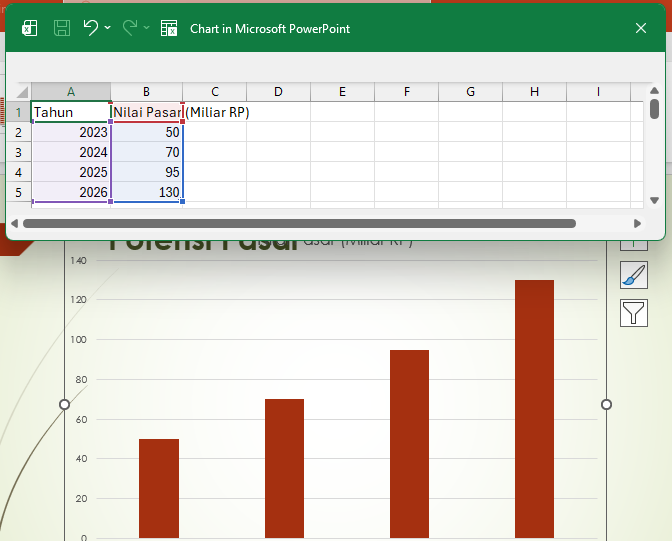
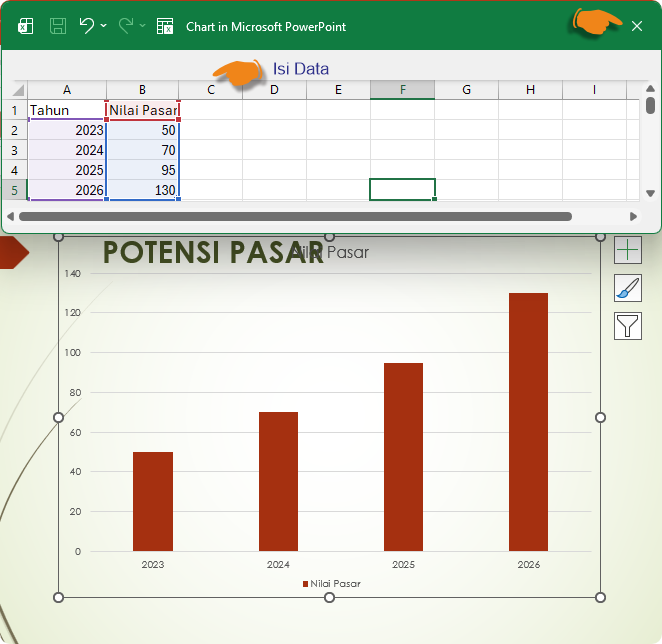
M

diff --git a/materi-powerpoint.html b/materi-powerpoint.html
@@ -478,7 +478,7 @@
                                     </div>
                                   </li>
                                 </ul>
-                                <p class="mt-2 mb-1"><strong>Isi:</strong></p>
+                                <p class="mt-2 mb-1"><strong><strong>Isi</strong>:</strong></p>
                                 <ol>
                                   <li><strong>Judul</strong> (atas): ketik <strong>"PENDIDIKAN &amp;
                                       PENGALAMAN"</strong>, font 36-40 pt.</li>
@@ -1175,7 +1175,7 @@
 
                             <div class="row">
                               <div class="col-md-6">
-                                <strong>Langkah 2 — Isi Judul</strong>
+                                <strong>Langkah 2 — <strong>Isi</strong> Judul</strong>
                                 <ol>
                                   <li>Klik <strong>Click to add text</strong>.</li>
                                   <li>Masukkan teks <strong>"PT MAJU JAYA INDONESIA"</strong>.
@@ -1189,7 +1189,7 @@
                                 </ol>
                               </div>
                               <div class="col-md-6">
-                                <strong>Langkah 3 — Isi Subtitle</strong>
+                                <strong>Langkah 3 — <strong>Isi</strong> Subtitle</strong>
                                 <ol>
                                   <li>Klik <strong>Click to add subtitle</strong>.</li>
                                   <li>Masukkan Subtitle: <strong>"Profil Perusahaan 2026"</strong>.
@@ -1321,7 +1321,7 @@
                                         class="img-fluid shadow rounded" style="max-width: 320px;">
                                     </div>
                                   </li>
-                                  <li>Isi teks di panel SmartArt:
+                                  <li><strong>Isi</strong> teks di panel SmartArt:
                                     <ul>
                                       <li>Level 1: <strong>Direktur Utama</strong></li>
                                       <li>Level 2: <strong>Manager</strong> (Keuangan, Produksi, SDM)</li>
@@ -1357,7 +1357,7 @@
                                       </li>
                                     </ul>
                                   </li>
-                                  <li>Isi tiap kotak:
+                                  <li><strong>Isi</strong> tiap kotak:
                                     <ul>
                                       <li><strong>Ikon</strong>: Insert → Icons (cari sesuai produk).</li>
                                       <li><strong>Nama produk</strong>: font 20-24 pt tebal, di bawah ikon.</li>
@@ -2090,7 +2090,7 @@
                                     </div>
                                   </li>
                                   <li>
-                                    Isi tiap <i class="bi bi-app"></i> Shape: <strong>PROSPEK</strong>,
+                                    <strong>Isi</strong> tiap <i class="bi bi-app"></i> Shape: <strong>PROSPEK</strong>,
                                     <strong>PENAWARAN</strong>,
                                     <strong>NEGOSIASI</strong>, <strong>DEAL</strong>, font 20-24 pt tebal.
                                     <div class="my-3">
@@ -2410,7 +2410,7 @@
                             Klik <strong>New Slide</strong> (ulangi 3 kali).
                           </li>
                           <li class="mb-3">
-                            Isi tiap Slide dengan Judul berbeda (font 36-40 pt):
+                            <strong>Isi</strong> tiap Slide dengan Judul berbeda (font 36-40 pt):
                             <div class="row">
                               <div class="col-md-6">
                                 <ol start="1">
@@ -3701,7 +3701,7 @@
                                   <li>Klik <strong>New Slide</strong>.</li>
                                   <li>Pilih <strong>Layout</strong> → <strong>Two Content</strong>.</li>
                                   <li>Judul : "<strong>MASALAH & SOLUSI</strong>"</li>
-                                  <li>Isi : <br>
+                                  <li><strong>Isi</strong> : <br>
                                     <strong>Masalah</strong>
                                     <ul class="mb-2">
                                       <li>Banyak orang sibuk sehingga tidak sempat belanja.</li>
@@ -3772,7 +3772,7 @@
                                 <ol>
                                   <li>Klik <strong>New Slide</strong> → <strong>Title Only</strong>.</li>
                                   <li>Judul: "<strong>PRODUK KAMI</strong>".</li>
-                                  <li>Isi :
+                                  <li><strong>Isi</strong> :
                                     <div class="ms-3 my-2 mb-3">
                                       3 Gambar produk
                                       <div class="pt-1 ms-2">
@@ -3826,7 +3826,7 @@
                                 </div>
                               </div>
                             </div><!-- /row -->
-                            
+
                             <ol start="5">
                               <li><strong>Animation</strong>
                                 <div class="row">
@@ -3870,19 +3870,19 @@
                             <strong>Slide 4 — Potensi Pasar</strong>
                             <div class="row">
                               <div class="col-md-6">
-                                <ul class="list-unstyled">
-                                  <li><strong>Layout:</strong> <strong>Title Only</strong></li>
-                                  <li>Judul : <strong>POTENSI PASAR</strong></li>
-                                  <li>Isi :
+                                <ol>
+                                  <li>Klik <strong>New Slide</strong> → <strong>Title Only</strong>.</li>
+                                  <li>Judul : "<strong>POTENSI PASAR</strong>"</li>
+                                  <li><strong>Isi</strong> :
                                     <div class="ms-2">
-                                      Grafik/chart potensi pasar (<strong>Insert</strong> → <strong>Chart</strong>)
+                                      Grafik/Chart Potensi Pasar (<strong>Insert</strong> → <strong>Chart</strong>)
                                       <div class="my-3">
                                         <img src="assets/img/chart-potensi-pasar.png" alt=""
                                           class="img-fluid shadow rounded">
                                       </div>
                                     </div>
                                   </li>
-                                </ul>
+                                </ol>
                               </div>
                               <div class="col-md-6">
                                 <div class="my-3">
@@ -3894,7 +3894,34 @@
 
                             <div class="row">
                               <div class="col-md-6">
-                                Isi Data Chart:
+                                <strong>Isi</strong> Data Chart:
+                                <table class="table table-sm table0borderless">
+                                  <thead>
+                                    <tr>
+                                      <th>Tahun</th>
+                                      <th>Nilai Pasar</th>
+                                    </tr>
+                                  </thead>
+                                  <tbody>
+                                    <tr>
+                                      <td>2023</td>
+                                      <td>50</td>
+                                    <tr>
+                                      <td>2024</td>
+                                      <td>70</td>
+                                    </tr>
+                                    </tr>
+                                    <tr>
+                                      <td>2025</td>
+                                      <td>95</td>
+                                    <tr>
+                                      <td>2026</td>
+                                      <td>130</td>
+                                    </tr>
+
+                                    </tr>
+                                  </tbody>
+                                </table>
                                 <div class="my-3">
                                   <img src="assets/img/isi-data-chart.png" alt="" class="img-fluid shadow rounded">
                                 </div>
@@ -3945,7 +3972,7 @@
                                   <li><strong>Layout:</strong> <strong>Title Only</strong></li>
                                   <li>Judul : <strong>BUSINESS MODEL</strong></li>
                                   <li>
-                                    <strong>Isi :</strong> <br>
+                                    <strong><strong>Isi</strong> :</strong> <br>
                                     <strong>Sumber Pendapatan</strong>
                                     <ul class="mb-2">
                                       <li>Margin penjualan produk</li>
@@ -4036,7 +4063,7 @@
                                 <ul class="list-unstyled">
                                   <li><strong>Layout:</strong> <strong>Title Only</strong></li>
                                   <li>Judul : <strong>TIM KAMI</strong></li>
-                                  <li>Isi : <br>
+                                  <li><strong>Isi</strong> : <br>
                                     <ul>
                                       <li><strong>Insert</strong> → <strong>SmartArt</strong> →
                                         <strong>Hierarchy</strong>
@@ -4071,7 +4098,7 @@
                                       <li>Marketing: <strong>Sinta</strong></li>
                                       <li>Finance: <strong>Rina</strong></li>
                                     </ul>
-                                    <p>Isi data seperti contoh gambar Slide</p>
+                                    <p><strong>Isi</strong> data seperti contoh gambar Slide</p>
                                   </li>
                                 </ul>
                               </div>
@@ -4106,7 +4133,7 @@
                                 <ul class="list-unstyled">
                                   <li><strong>Layout:</strong> <strong>Title Only</strong></li>
                                   <li>Judul : <strong>Mari Bertumbuh Bersama Kami</strong></li>
-                                  <li>Isi : <br>
+                                  <li><strong>Isi</strong> : <br>
                                   <li><strong>Yang Kami Cari</strong>
                                     <ul class="mb-2">
                                       <li>Investasi</li>
@@ -4525,7 +4552,8 @@
                                     <li>&#10003; Centang Date and time (opsional (jika diperlukan))</li>
                                     <li>&#10003; Centang Slide number (opsional (jika diperlukan))</li>
                                     <li>&#10003; Centang Footer</li>
-                                    <li>&#10003; Isi teks footer, misalnya: <strong>Latihanku</strong></li>
+                                    <li>&#10003; <strong>Isi</strong> teks footer, misalnya: <strong>Latihanku</strong>
+                                    </li>
                                     <li>&#10003; Klik <strong>Apply to All</strong>.
                                       <div class="my-3">
                                         <img src="assets/img/Header&Footer2.png" alt=""
@@ -4546,7 +4574,7 @@
                           <div class="border-start border-4 border-primary ps-3 my-2 py-1">
                             <strong class="text-primary">Slide 1 — Cover</strong> <br>
                             Layout: <strong>Title Slide</strong><br>
-                            Isi:
+                            <strong>Isi</strong>:
                             <div class="row">
                               <div class="col-md-6">
                                 <ul class="list-unstyled">
@@ -4632,11 +4660,11 @@
                           </div>
 
                           <div class="border-start border-4 border-warning ps-3 my-2 py-1">
-                            <strong class="text-warning">Slide 2 — Daftar Isi</strong>
+                            <strong class="text-warning">Slide 2 — Daftar <strong>Isi</strong></strong>
                             <div class="row">
                               <div class="col-md-6">
                                 Judul: "<strong>DAFTAR ISI</strong>"<br>
-                                Isi: <br>
+                                <strong>Isi</strong>: <br>
                                 Gunakan <strong>Shape</strong> → <strong>Rectangle: Rounded Corners</strong>. <br>
                                 Gunakan ikon di setiap menu.
                                 <ol class="list-unstyled">
@@ -4656,7 +4684,7 @@
                                 <div class="my-3">
                                   <ul>
                                     <li>Slide <strong>Transitions</strong> : <strong>Morph</strong> <br>
-                                      Klik Slide Daftar Isi.
+                                      Klik Slide Daftar <strong>Isi</strong>.
                                       <div class="my-3">
                                         <img src="assets/img/transitions-DaftarIsi.png" alt=""
                                           class="img-fluid shadow rounded">
@@ -4924,7 +4952,7 @@
                                   </div>
                                 </div>
                                 <strong>Insert</strong> → <strong>SmartArt</strong> → <strong>Hierarchy</strong><br>
-                                Isi:
+                                <strong>Isi</strong>:
                                 <ul>
                                   <li>Marketing</li>
                                   <li>Finance</li>
@@ -4973,7 +5001,7 @@
                             <div class="row">
                               <div class="col-md-6">
                                 Judul besar: "<strong>TERIMA KASIH</strong>"<br>
-                                Isi:
+                                <strong>Isi</strong>:
                                 <ul class="dash-list">
                                   <li><strong>Mari Bekerja Sama!</strong></li>
                                   <li>📧 info@idn-tech.co.id</li>
@@ -5026,7 +5054,7 @@
                             <li>Gambar di pojok kanan bawah slide.</li>
                             <li>Di jendela <strong>Action Settings</strong>, pilih <strong>Hyperlink to:</strong> →
                               <strong>Slide…</strong>
-                              → pilih <strong>Slide 2 (Daftar Isi)</strong> → <strong>OK</strong>.
+                              → pilih <strong>Slide 2 (Daftar <strong>Isi</strong>)</strong> → <strong>OK</strong>.
                             </li>
                             <li>Ulangi langkah 1–4 untuk <strong>Slide 4, 5, 6, 7, dan 8</strong>.</li>
                           </ol>
@@ -5109,7 +5137,8 @@
                 </div>
                 <ol>
                   <li><strong>Buka PowerPoint</strong> → <strong>Blank Presentation</strong>.</li>
-                  <li><strong>Slide 1 (Cover):</strong> Layout <strong>Title Slide</strong>. Isi nama perusahaan dan
+                  <li><strong>Slide 1 (Cover):</strong> Layout <strong>Title Slide</strong>. <strong>Isi</strong> nama
+                    perusahaan dan
                     tagline. Font Judul 36–40 pt, subjudul 18–20 pt.</li>
                   <li><strong>Slide 2 (Visi &amp; Misi):</strong> Layout <strong>Title Only</strong>. Judul "Visi &amp;
                     Misi". Body: 2–3 bullet visi dan misi (font 18–20 pt).</li>
@@ -5202,13 +5231,15 @@
                 <ol>
                   <li><strong>Buka PowerPoint</strong> → <strong>Blank Presentation</strong>.</li>
                   <li>Buat <strong>5 Slide</strong> dengan layout <strong>Title Only</strong>.</li>
-                  <li><strong>Slide 1 (Menu):</strong> Judul "Daftar Isi". Buat 4 teks (Slide 2–5) sebagai menu.
+                  <li><strong>Slide 1 (Menu):</strong> Judul "Daftar <strong>Isi</strong>". Buat 4 teks (Slide 2–5)
+                    sebagai menu.
                     <strong>Insert</strong> → <strong>Text Box</strong> untuk tiap item.
                   </li>
                   <li>Beri <strong>Hyperlink</strong> pada tiap teks menu: <strong>Klik kanan</strong> <i
                       class="bi bi-mouse2"></i> teks → <strong>Link</strong> → <strong>Place in This Document</strong> →
                     pilih slide tujuan.</li>
-                  <li><strong>Slide 2–5 (Konten):</strong> Isi Judul dan konten masing-masing (misal: Visi, Produk,
+                  <li><strong>Slide 2–5 (Konten):</strong> <strong>Isi</strong> Judul dan konten masing-masing (misal:
+                    Visi, Produk,
                     Galeri, Kontak).</li>
                   <li>Pada tiap Slide 2–5, tambahkan <strong>Action Button</strong>: <strong>Insert</strong> →
                     <strong>Shapes</strong> → <strong>Action Button: Home</strong> → gambar di slide → <strong>Hyperlink
@@ -5254,7 +5285,8 @@
                   <li><strong>Slide 2 (Data Kategorisasi):</strong> Layout <strong>Title Only</strong>. Judul "Kategori
                     Produk".
                     <ul>
-                      <li><strong>Insert</strong> → <strong>Table</strong> → 4 baris × 3 kolom. Isi: No, Kategori,
+                      <li><strong>Insert</strong> → <strong>Table</strong> → 4 baris × 3 kolom. <strong>Isi</strong>:
+                        No, Kategori,
                         Jumlah.
                       </li>
                       <li>Di bawah tabel: <strong>Insert</strong> → <strong>SmartArt</strong> → <strong>List</strong> →
